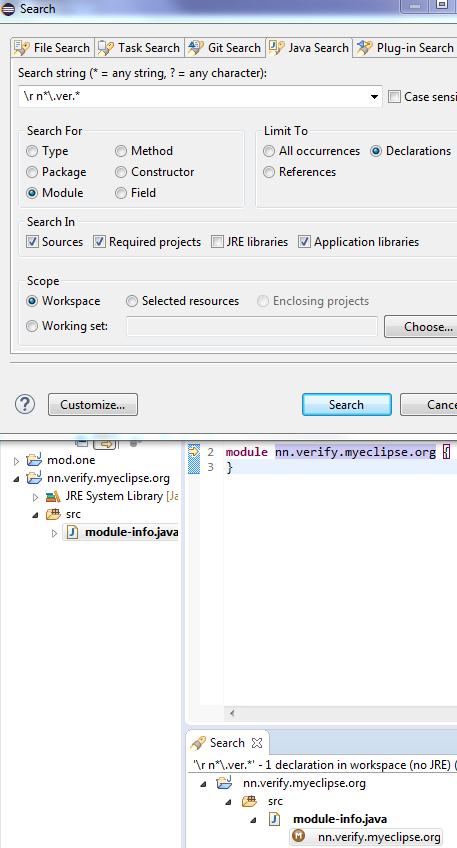
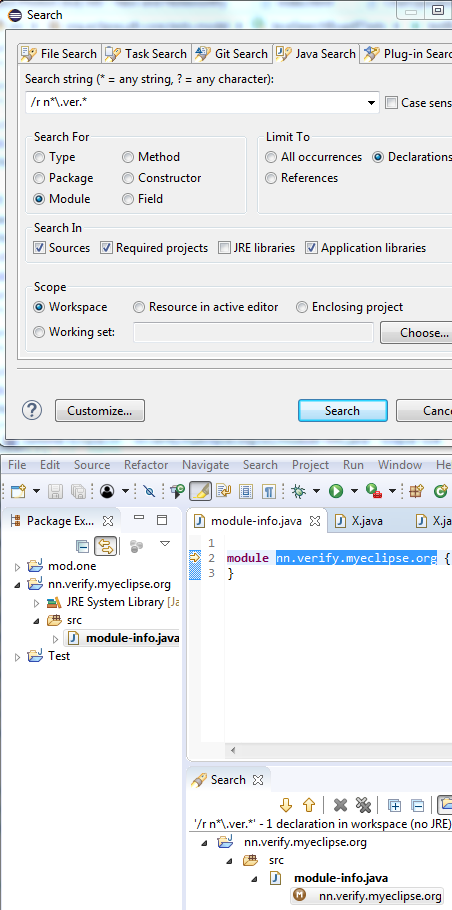
cleanup plus subsection regex changes

Changed region(s): [[0.0, 0.0, 1.0, 1.0], [0.5575, 0.1226, 1.0, 0.2146]]

diff --git a/4.8/M5/index.html b/4.8/M5/index.html
@@ -236,12 +236,12 @@ These command line options are part of what can be overridden using the new <a h
     </td>
   </tr>
   <tr id="regex-module-declaration-search-api">
-    <td class="title">Trapdoor for Regex Module Declaration Search</td>
+    <td class="title">Option for Regex in Module Declaration Search</td>
     <td class="content">
-      This is an <b>experimental</b> support provided to invoke the regular expression search for module declarations from jdt ui.
+      This is an <b>experimental</b> support provided to allow the regular expression usage in search field while searching for module declaration.
       This can be considered as a wrapper of the <a href="#top">API change</a>. To invoke the regular expression search from
-      the ui under Java Search, start the expression with "\r " ie a backslash '\', the letter 'r' and a blank ' ' (not tab) 
-      followed by the regex as shown in an example below:
+      the search field under Java Search, start the expression with "/r " ie a slash '/', the letter 'r' and a blank ' ' (not tab) 
+      followed by a regex, an example of which is shown below:
       <p>
         <img src="images/mod.regex.trap.png" alt="Trapdoor for regular expression module declaration search" />
       </p>
